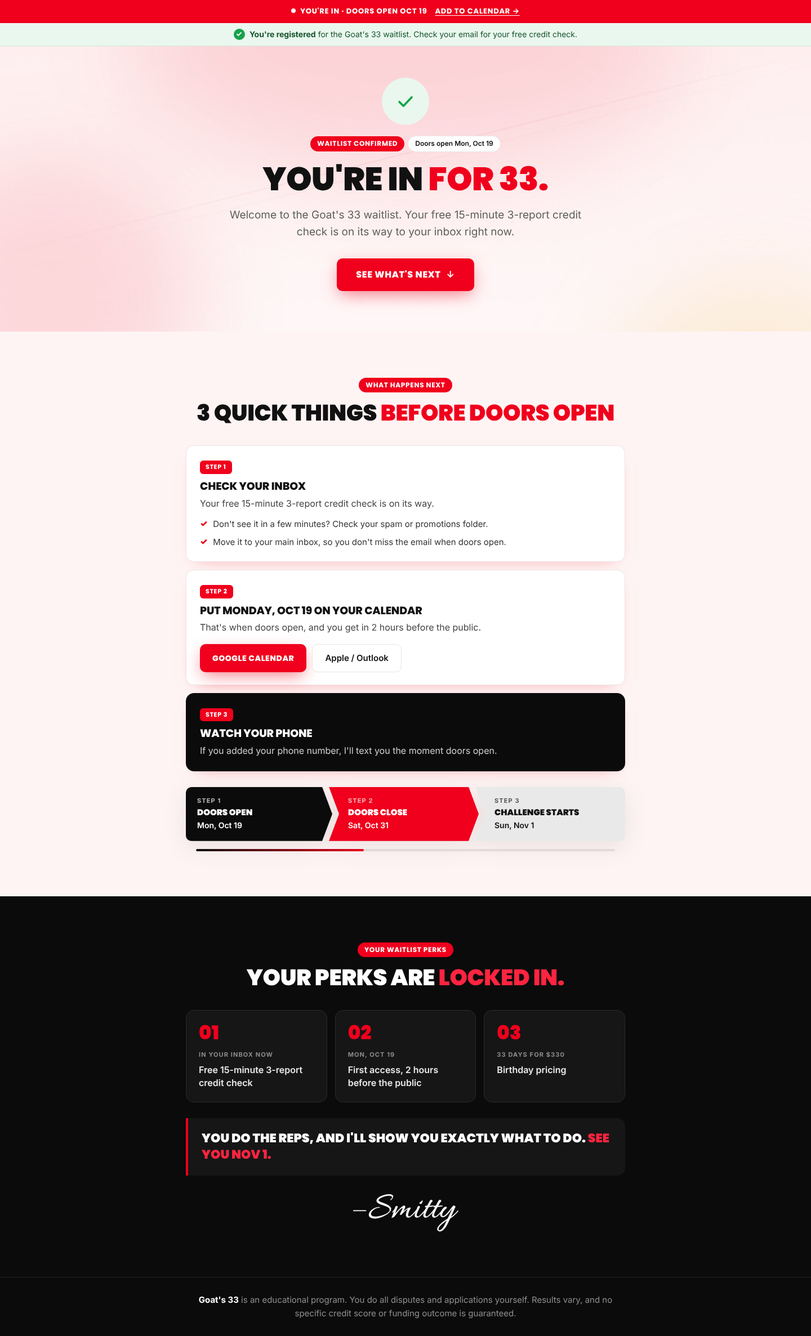
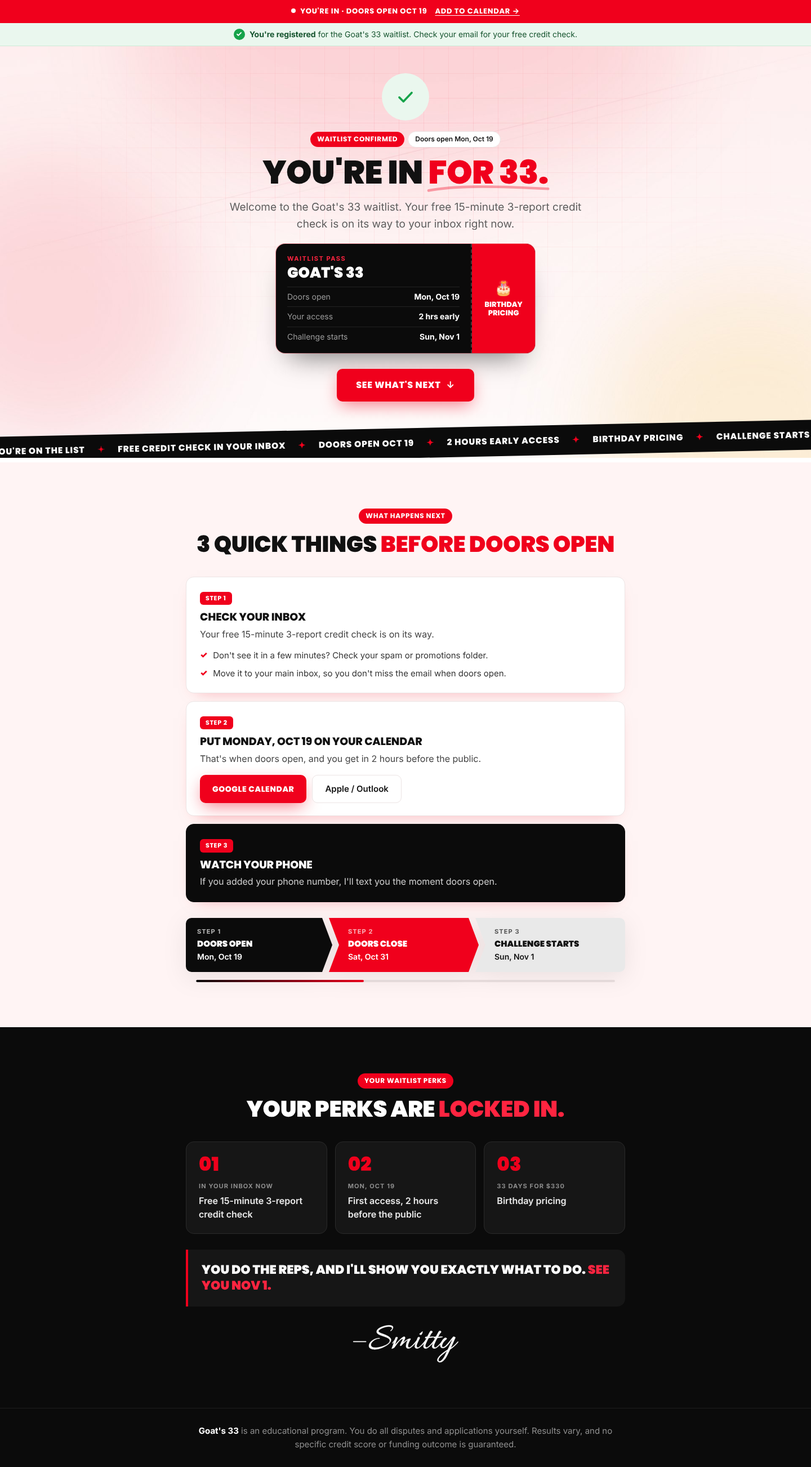
Add a motion-graphics opener to the Goat's 33 thank-you hero
The green strip drops in, the check pops with two rippling rings and a
one-time confetti burst, the headline builds word by word while the 33
counts up and an underline draws, a dark waitlist pass (doors open,
2 hrs early, challenge start, birthday pricing) flips up and gets a
light sweep, and a ticker runs along the bottom. The block is now
transparent like the registration hero, so the section's background
image shows through. All motion stops under prefers-reduced-motion.

Claude-Session: https://claude.ai/code/session_016EWm4T9j3p357VgxQ4fA9k

diff --git a/funnel/goats-33/preview/thank-you.html b/funnel/goats-33/preview/thank-you.html
@@ -291,6 +291,48 @@ html { scroll-behavior: smooth; }
 .wf-glowbg .wf__wrap { position: relative; }
 @keyframes wf-breathe { 50% { transform: translate(-50%, -50%) scale(1.25); opacity: .6; } }
 
+/* ---------- Thank-you "You're in" opener ---------- */
+.wf-strip--drop { animation: wf-drop .6s cubic-bezier(.2,.8,.2,1) both; }
+@keyframes wf-drop { from { transform: translateY(-100%); opacity: 0; } }
+.wf-ty2 .wf-hero--motion .wf__wrap { padding-top: 48px; padding-bottom: 48px; }
+.wf-ty2 .wf-kinetic { margin: 14px 0 16px; }
+
+/* Check: pops in, two rings ripple out, a ring of confetti bursts once */
+.wf-burst { position: relative; width: 84px; height: 84px; margin: 0 auto 18px; }
+.wf-burst .wf-okay { position: relative; z-index: 2; margin: 0; animation-delay: .15s; }
+.wf-burst__ring { position: absolute; inset: 0; border-radius: 50%; border: 2px solid var(--wf-green); opacity: 0; animation: wf-ring 1.6s ease-out .45s 2; }
+.wf-burst__ring--2 { border-color: var(--wf-red); animation-delay: .75s; }
+@keyframes wf-ring { 0% { transform: scale(.9); opacity: .7; } 100% { transform: scale(2.4); opacity: 0; } }
+.wf-burst__bits { position: absolute; left: 50%; top: 50%; z-index: 1; }
+.wf-burst__bits i { position: absolute; left: -4px; top: -7px; width: 8px; height: 14px; border-radius: 2px; opacity: 0;
+  background: var(--c, var(--wf-red)); transform: rotate(var(--a)) translateY(0);
+  animation: wf-bit 1s cubic-bezier(.1,.7,.3,1) .55s both; }
+@keyframes wf-bit { 0% { opacity: 1; transform: rotate(var(--a)) translateY(0) scale(.6); } 70% { opacity: 1; } 100% { opacity: 0; transform: rotate(var(--a)) translateY(-90px) rotate(200deg) scale(1); } }
+.wf-burst__bits i:nth-child(1) { --a: 0deg; } .wf-burst__bits i:nth-child(2) { --a: 30deg; --c: var(--wf-gold); }
+.wf-burst__bits i:nth-child(3) { --a: 60deg; --c: var(--wf-green); } .wf-burst__bits i:nth-child(4) { --a: 90deg; }
+.wf-burst__bits i:nth-child(5) { --a: 120deg; --c: var(--wf-gold); } .wf-burst__bits i:nth-child(6) { --a: 150deg; --c: var(--wf-ink); }
+.wf-burst__bits i:nth-child(7) { --a: 180deg; } .wf-burst__bits i:nth-child(8) { --a: 210deg; --c: var(--wf-gold); }
+.wf-burst__bits i:nth-child(9) { --a: 240deg; --c: var(--wf-green); } .wf-burst__bits i:nth-child(10) { --a: 270deg; }
+.wf-burst__bits i:nth-child(11) { --a: 300deg; --c: var(--wf-gold); } .wf-burst__bits i:nth-child(12) { --a: 330deg; --c: var(--wf-ink); }
+
+/* Waitlist pass: flips up into place, then a light sweeps across it */
+.wf-pass { position: relative; display: flex; max-width: 460px; margin: 4px auto 28px; text-align: left; border-radius: 16px; overflow: hidden;
+  background: var(--wf-black); color: #fff; box-shadow: 0 28px 50px -24px rgba(0,0,0,.55), 0 0 0 1px rgba(240,0,28,.35);
+  transform-origin: 50% 100%; animation: wf-pass-in .9s cubic-bezier(.2,.9,.25,1) 1.4s both; }
+.wf-pass::after { content: ""; position: absolute; top: 0; bottom: 0; width: 35%; left: -50%; pointer-events: none;
+  background: linear-gradient(100deg, transparent, rgba(255,255,255,.18), transparent); transform: skewX(-20deg);
+  animation: wf-shine 4s ease-in-out 2.4s infinite; }
+@keyframes wf-pass-in { from { opacity: 0; transform: perspective(800px) rotateX(55deg) translateY(30px) scale(.92); } to { opacity: 1; transform: none; } }
+.wf-pass__main { flex: 1; padding: 18px 20px; border-right: 2px dashed #3A3A3A; position: relative; }
+.wf-pass__kicker { display: block; font-size: 11px; font-weight: 700; letter-spacing: .14em; text-transform: uppercase; color: #FF2440; }
+.wf-pass__title { display: block; font-family: var(--wf-head); font-weight: 900; font-size: 26px; line-height: 1.1; text-transform: uppercase; margin: 2px 0 10px; }
+.wf-pass__rows { margin: 0; display: grid; gap: 6px; }
+.wf-pass__rows div { display: flex; justify-content: space-between; gap: 12px; font-size: 14px; border-top: 1px solid #222; padding-top: 6px; }
+.wf-pass__rows dt { color: #9A9A9A; } .wf-pass__rows dd { margin: 0; font-weight: 700; }
+.wf-pass__stub { width: 112px; flex: none; display: grid; place-content: center; justify-items: center; gap: 6px; text-align: center; padding: 12px;
+  background: var(--wf-red); font-family: var(--wf-head); font-weight: 800; font-size: 13px; line-height: 1.2; text-transform: uppercase; }
+.wf-pass__cake { font-size: 26px; animation: wf-bob 3s ease-in-out 2.4s infinite; }
+
 /* ---------- Phones ---------- */
 @media (max-width: 760px) {
   .wf { font-size: 16px; }
@@ -310,11 +352,15 @@ html { scroll-behavior: smooth; }
   .wf-float--b { right: -6px; top: 44%; }
   .wf-float--c { left: -6px; bottom: 6%; }
   .wf-ticker__track { font-size: 13px; }
+  .wf-pass__stub { width: 92px; font-size: 12px; }
+  .wf-pass__title { font-size: 22px; }
 }
 @media (prefers-reduced-motion: reduce) {
   .wf__btn, .wf-top__dot, .wf-okay, .wf-okay path, .wf-in, .wf-kinetic .wf-w > span, .wf-scribble path, .wf-wipe, .wf-wipe img,
   .wf-float, .wf-fx__grid, .wf-ticker__track, .wf__btn--shine::after, .wf-progress span, .wf-offer--glow,
-  .wf-glowbg::before, .wf-tabs--seq.is-in .wf-tab, .wf-bio.is-in .wf-chip, .wf-card__num { animation: none !important; }
+  .wf-glowbg::before, .wf-tabs--seq.is-in .wf-tab, .wf-bio.is-in .wf-chip, .wf-card__num,
+  .wf-strip--drop, .wf-burst__ring, .wf-burst__bits i, .wf-pass, .wf-pass::after, .wf-pass__cake { animation: none !important; }
+  .wf-burst__ring, .wf-burst__bits { display: none; }
   .wf-scribble path { stroke-dashoffset: 0; }
   .wf-okay path { stroke-dashoffset: 0; }
   [data-reveal][data-reveal="armed"] { opacity: 1; transform: none; transition: none; }
@@ -358,19 +404,66 @@ body{margin:0;background:#fff}
 })();
 </script>
 
-<div class="mock-hero"><!-- Goat's 33 · THANK-YOU · 02 YOU'RE IN · own GHL section, padding 0, no background (the block paints its own) -->
-<div class="wf">
-  <div class="wf-strip"><div class="wf-strip__in"><span class="wf-tick wf-tick--green" aria-hidden="true"><svg viewBox="0 0 16 16" fill="none" stroke="#fff" stroke-width="3" stroke-linecap="round" stroke-linejoin="round"><path d="M3 8.5l3.2 3L13 4.5"/></svg></span><span><strong>You're registered</strong> for the Goat's 33 waitlist. Check your email for your free credit check.</span></div></div>
-  <div class="wf-hero">
+<div class="mock-hero"><!-- Goat's 33 · THANK-YOU · 02 YOU'RE IN · own GHL section, padding 0, FULL WIDTH.
+     Section background image: backgrounds/hero-section.jpg (or solid #FFF5F5). The block is transparent.
+     Motion-graphics opener: the green strip slides down, the check pops with rings and a confetti burst, the headline
+     builds word by word while 33 counts up, an underline draws, a waitlist pass flips in with a shine, and a ticker runs
+     along the bottom. All motion stops under "reduce motion". -->
+<div class="wf wf-ty2">
+  <div class="wf-strip wf-strip--drop"><div class="wf-strip__in"><span class="wf-tick wf-tick--green" aria-hidden="true"><svg viewBox="0 0 16 16" fill="none" stroke="#fff" stroke-width="3" stroke-linecap="round" stroke-linejoin="round"><path d="M3 8.5l3.2 3L13 4.5"/></svg></span><span><strong>You're registered</strong> for the Goat's 33 waitlist. Check your email for your free credit check.</span></div></div>
+  <div class="wf-hero wf-hero--motion">
+    <div class="wf-fx" aria-hidden="true"><span class="wf-fx__grid"></span></div>
     <div class="wf__wrap wf__center">
-      <div class="wf-okay" aria-hidden="true"><svg viewBox="0 0 48 48"><path d="M12 25l8 8 16-17"/></svg></div>
-      <div class="wf__labels"><span class="wf__label">Waitlist confirmed</span><span class="wf__label wf__label--soft">Doors open Mon, Oct 19</span></div>
-      <h1>You're in <span class="wf__red">for 33.</span></h1>
-      <p class="wf__lead">Welcome to the Goat's 33 waitlist. Your free 15-minute 3-report credit check is on its way to your inbox right now.</p>
-      <a class="wf__btn wf__btn--shine" href="#wf-next" style="margin-top:12px">See What's Next <span class="wf__arrow" aria-hidden="true">↓</span></a>
+      <div class="wf-burst" aria-hidden="true">
+        <span class="wf-burst__ring"></span><span class="wf-burst__ring wf-burst__ring--2"></span>
+        <span class="wf-burst__bits"><i></i><i></i><i></i><i></i><i></i><i></i><i></i><i></i><i></i><i></i><i></i><i></i></span>
+        <div class="wf-okay"><svg viewBox="0 0 48 48"><path d="M12 25l8 8 16-17"/></svg></div>
+      </div>
+      <div class="wf__labels wf-in" style="--d:.5s"><span class="wf__label">Waitlist confirmed</span><span class="wf__label wf__label--soft">Doors open Mon, Oct 19</span></div>
+      <h1 class="wf-kinetic" aria-label="You're in for 33."><span aria-hidden="true">
+        <span class="wf-w" style="--i:3"><span>You're</span></span>
+        <span class="wf-w" style="--i:4"><span>in</span></span>
+        <span class="wf-w wf__red wf-mark" style="--i:5"><span>for <span class="wf-count" data-to="33">33</span>.</span><svg class="wf-scribble" viewBox="0 0 300 24" preserveAspectRatio="none"><path d="M4 16 C 60 6, 140 4, 296 12"/></svg></span>
+      </span></h1>
+      <p class="wf__lead wf-in" style="--d:1.1s">Welcome to the Goat's 33 waitlist. Your free 15-minute 3-report credit check is on its way to your inbox right now.</p>
+      <div class="wf-pass" aria-label="Your waitlist pass: doors open Monday, Oct 19, you get in 2 hours early, challenge starts Sunday, Nov 1">
+        <div class="wf-pass__main">
+          <span class="wf-pass__kicker">Waitlist pass</span>
+          <span class="wf-pass__title">Goat's 33</span>
+          <dl class="wf-pass__rows">
+            <div><dt>Doors open</dt><dd>Mon, Oct 19</dd></div>
+            <div><dt>Your access</dt><dd>2 hrs early</dd></div>
+            <div><dt>Challenge starts</dt><dd>Sun, Nov 1</dd></div>
+          </dl>
+        </div>
+        <div class="wf-pass__stub"><span class="wf-pass__cake" aria-hidden="true">🎂</span><span>Birthday<br>pricing</span></div>
+      </div>
+      <div class="wf-in" style="--d:2.1s">
+        <a class="wf__btn wf__btn--shine" href="#wf-next">See What's Next <span class="wf__arrow" aria-hidden="true">↓</span></a>
+      </div>
     </div>
+    <div class="wf-ticker" aria-hidden="true"><div class="wf-ticker__track"><span>You're on the list</span><i aria-hidden="true">✦</i><span>Free credit check in your inbox</span><i aria-hidden="true">✦</i><span>Doors open Oct 19</span><i aria-hidden="true">✦</i><span>2 hours early access</span><i aria-hidden="true">✦</i><span>Birthday pricing</span><i aria-hidden="true">✦</i><span>Challenge starts Nov 1</span><i aria-hidden="true">✦</i><span>You're on the list</span><i aria-hidden="true">✦</i><span>Free credit check in your inbox</span><i aria-hidden="true">✦</i><span>Doors open Oct 19</span><i aria-hidden="true">✦</i><span>2 hours early access</span><i aria-hidden="true">✦</i><span>Birthday pricing</span><i aria-hidden="true">✦</i><span>Challenge starts Nov 1</span><i aria-hidden="true">✦</i></div></div>
   </div>
 </div>
+<script>
+/* Counts the red 33 up from 0 once the headline has built in. Without JS it just shows 33. */
+(function () {
+  if (matchMedia('(prefers-reduced-motion: reduce)').matches) return;
+  document.querySelectorAll('.wf-count:not([data-done])').forEach(function (el) {
+    el.setAttribute('data-done', '');
+    var to = +el.dataset.to, t0 = null, dur = 1100;
+    el.textContent = '0';
+    setTimeout(function () {
+      requestAnimationFrame(function step(ts) {
+        t0 = t0 || ts;
+        var k = Math.min((ts - t0) / dur, 1);
+        el.textContent = Math.round(to * (1 - Math.pow(1 - k, 3)));
+        if (k < 1) requestAnimationFrame(step);
+      });
+    }, 800);
+  });
+})();
+</script>
 </div>
 <!-- Goat's 33 · THANK-YOU · 03 WHAT HAPPENS NEXT (blush) · own GHL section, padding 0, no background (the block paints its own) -->
 <div class="wf wf--blush" id="wf-next" style="scroll-margin-top:0">

diff --git a/funnel/goats-33/thank-you/02-confirmed.html b/funnel/goats-33/thank-you/02-confirmed.html
@@ -1,13 +1,60 @@
-<!-- Goat's 33 · THANK-YOU · 02 YOU'RE IN · own GHL section, padding 0, no background (the block paints its own) -->
-<div class="wf">
-  <div class="wf-strip"><div class="wf-strip__in"><span class="wf-tick wf-tick--green" aria-hidden="true"><svg viewBox="0 0 16 16" fill="none" stroke="#fff" stroke-width="3" stroke-linecap="round" stroke-linejoin="round"><path d="M3 8.5l3.2 3L13 4.5"/></svg></span><span><strong>You're registered</strong> for the Goat's 33 waitlist. Check your email for your free credit check.</span></div></div>
-  <div class="wf-hero">
+<!-- Goat's 33 · THANK-YOU · 02 YOU'RE IN · own GHL section, padding 0, FULL WIDTH.
+     Section background image: backgrounds/hero-section.jpg (or solid #FFF5F5). The block is transparent.
+     Motion-graphics opener: the green strip slides down, the check pops with rings and a confetti burst, the headline
+     builds word by word while 33 counts up, an underline draws, a waitlist pass flips in with a shine, and a ticker runs
+     along the bottom. All motion stops under "reduce motion". -->
+<div class="wf wf-ty2">
+  <div class="wf-strip wf-strip--drop"><div class="wf-strip__in"><span class="wf-tick wf-tick--green" aria-hidden="true"><svg viewBox="0 0 16 16" fill="none" stroke="#fff" stroke-width="3" stroke-linecap="round" stroke-linejoin="round"><path d="M3 8.5l3.2 3L13 4.5"/></svg></span><span><strong>You're registered</strong> for the Goat's 33 waitlist. Check your email for your free credit check.</span></div></div>
+  <div class="wf-hero wf-hero--motion">
+    <div class="wf-fx" aria-hidden="true"><span class="wf-fx__grid"></span></div>
     <div class="wf__wrap wf__center">
-      <div class="wf-okay" aria-hidden="true"><svg viewBox="0 0 48 48"><path d="M12 25l8 8 16-17"/></svg></div>
-      <div class="wf__labels"><span class="wf__label">Waitlist confirmed</span><span class="wf__label wf__label--soft">Doors open Mon, Oct 19</span></div>
-      <h1>You're in <span class="wf__red">for 33.</span></h1>
-      <p class="wf__lead">Welcome to the Goat's 33 waitlist. Your free 15-minute 3-report credit check is on its way to your inbox right now.</p>
-      <a class="wf__btn wf__btn--shine" href="#wf-next" style="margin-top:12px">See What's Next <span class="wf__arrow" aria-hidden="true">↓</span></a>
+      <div class="wf-burst" aria-hidden="true">
+        <span class="wf-burst__ring"></span><span class="wf-burst__ring wf-burst__ring--2"></span>
+        <span class="wf-burst__bits"><i></i><i></i><i></i><i></i><i></i><i></i><i></i><i></i><i></i><i></i><i></i><i></i></span>
+        <div class="wf-okay"><svg viewBox="0 0 48 48"><path d="M12 25l8 8 16-17"/></svg></div>
+      </div>
+      <div class="wf__labels wf-in" style="--d:.5s"><span class="wf__label">Waitlist confirmed</span><span class="wf__label wf__label--soft">Doors open Mon, Oct 19</span></div>
+      <h1 class="wf-kinetic" aria-label="You're in for 33."><span aria-hidden="true">
+        <span class="wf-w" style="--i:3"><span>You're</span></span>
+        <span class="wf-w" style="--i:4"><span>in</span></span>
+        <span class="wf-w wf__red wf-mark" style="--i:5"><span>for <span class="wf-count" data-to="33">33</span>.</span><svg class="wf-scribble" viewBox="0 0 300 24" preserveAspectRatio="none"><path d="M4 16 C 60 6, 140 4, 296 12"/></svg></span>
+      </span></h1>
+      <p class="wf__lead wf-in" style="--d:1.1s">Welcome to the Goat's 33 waitlist. Your free 15-minute 3-report credit check is on its way to your inbox right now.</p>
+      <div class="wf-pass" aria-label="Your waitlist pass: doors open Monday, Oct 19, you get in 2 hours early, challenge starts Sunday, Nov 1">
+        <div class="wf-pass__main">
+          <span class="wf-pass__kicker">Waitlist pass</span>
+          <span class="wf-pass__title">Goat's 33</span>
+          <dl class="wf-pass__rows">
+            <div><dt>Doors open</dt><dd>Mon, Oct 19</dd></div>
+            <div><dt>Your access</dt><dd>2 hrs early</dd></div>
+            <div><dt>Challenge starts</dt><dd>Sun, Nov 1</dd></div>
+          </dl>
+        </div>
+        <div class="wf-pass__stub"><span class="wf-pass__cake" aria-hidden="true">🎂</span><span>Birthday<br>pricing</span></div>
+      </div>
+      <div class="wf-in" style="--d:2.1s">
+        <a class="wf__btn wf__btn--shine" href="#wf-next">See What's Next <span class="wf__arrow" aria-hidden="true">↓</span></a>
+      </div>
     </div>
+    <div class="wf-ticker" aria-hidden="true"><div class="wf-ticker__track"><span>You're on the list</span><i aria-hidden="true">✦</i><span>Free credit check in your inbox</span><i aria-hidden="true">✦</i><span>Doors open Oct 19</span><i aria-hidden="true">✦</i><span>2 hours early access</span><i aria-hidden="true">✦</i><span>Birthday pricing</span><i aria-hidden="true">✦</i><span>Challenge starts Nov 1</span><i aria-hidden="true">✦</i><span>You're on the list</span><i aria-hidden="true">✦</i><span>Free credit check in your inbox</span><i aria-hidden="true">✦</i><span>Doors open Oct 19</span><i aria-hidden="true">✦</i><span>2 hours early access</span><i aria-hidden="true">✦</i><span>Birthday pricing</span><i aria-hidden="true">✦</i><span>Challenge starts Nov 1</span><i aria-hidden="true">✦</i></div></div>
   </div>
 </div>
+<script>
+/* Counts the red 33 up from 0 once the headline has built in. Without JS it just shows 33. */
+(function () {
+  if (matchMedia('(prefers-reduced-motion: reduce)').matches) return;
+  document.querySelectorAll('.wf-count:not([data-done])').forEach(function (el) {
+    el.setAttribute('data-done', '');
+    var to = +el.dataset.to, t0 = null, dur = 1100;
+    el.textContent = '0';
+    setTimeout(function () {
+      requestAnimationFrame(function step(ts) {
+        t0 = t0 || ts;
+        var k = Math.min((ts - t0) / dur, 1);
+        el.textContent = Math.round(to * (1 - Math.pow(1 - k, 3)));
+        if (k < 1) requestAnimationFrame(step);
+      });
+    }, 800);
+  });
+})();
+</script>

diff --git a/funnel/goats-33/preview/registration.html b/funnel/goats-33/preview/registration.html
@@ -291,6 +291,48 @@ html { scroll-behavior: smooth; }
 .wf-glowbg .wf__wrap { position: relative; }
 @keyframes wf-breathe { 50% { transform: translate(-50%, -50%) scale(1.25); opacity: .6; } }
 
+/* ---------- Thank-you "You're in" opener ---------- */
+.wf-strip--drop { animation: wf-drop .6s cubic-bezier(.2,.8,.2,1) both; }
+@keyframes wf-drop { from { transform: translateY(-100%); opacity: 0; } }
+.wf-ty2 .wf-hero--motion .wf__wrap { padding-top: 48px; padding-bottom: 48px; }
+.wf-ty2 .wf-kinetic { margin: 14px 0 16px; }
+
+/* Check: pops in, two rings ripple out, a ring of confetti bursts once */
+.wf-burst { position: relative; width: 84px; height: 84px; margin: 0 auto 18px; }
+.wf-burst .wf-okay { position: relative; z-index: 2; margin: 0; animation-delay: .15s; }
+.wf-burst__ring { position: absolute; inset: 0; border-radius: 50%; border: 2px solid var(--wf-green); opacity: 0; animation: wf-ring 1.6s ease-out .45s 2; }
+.wf-burst__ring--2 { border-color: var(--wf-red); animation-delay: .75s; }
+@keyframes wf-ring { 0% { transform: scale(.9); opacity: .7; } 100% { transform: scale(2.4); opacity: 0; } }
+.wf-burst__bits { position: absolute; left: 50%; top: 50%; z-index: 1; }
+.wf-burst__bits i { position: absolute; left: -4px; top: -7px; width: 8px; height: 14px; border-radius: 2px; opacity: 0;
+  background: var(--c, var(--wf-red)); transform: rotate(var(--a)) translateY(0);
+  animation: wf-bit 1s cubic-bezier(.1,.7,.3,1) .55s both; }
+@keyframes wf-bit { 0% { opacity: 1; transform: rotate(var(--a)) translateY(0) scale(.6); } 70% { opacity: 1; } 100% { opacity: 0; transform: rotate(var(--a)) translateY(-90px) rotate(200deg) scale(1); } }
+.wf-burst__bits i:nth-child(1) { --a: 0deg; } .wf-burst__bits i:nth-child(2) { --a: 30deg; --c: var(--wf-gold); }
+.wf-burst__bits i:nth-child(3) { --a: 60deg; --c: var(--wf-green); } .wf-burst__bits i:nth-child(4) { --a: 90deg; }
+.wf-burst__bits i:nth-child(5) { --a: 120deg; --c: var(--wf-gold); } .wf-burst__bits i:nth-child(6) { --a: 150deg; --c: var(--wf-ink); }
+.wf-burst__bits i:nth-child(7) { --a: 180deg; } .wf-burst__bits i:nth-child(8) { --a: 210deg; --c: var(--wf-gold); }
+.wf-burst__bits i:nth-child(9) { --a: 240deg; --c: var(--wf-green); } .wf-burst__bits i:nth-child(10) { --a: 270deg; }
+.wf-burst__bits i:nth-child(11) { --a: 300deg; --c: var(--wf-gold); } .wf-burst__bits i:nth-child(12) { --a: 330deg; --c: var(--wf-ink); }
+
+/* Waitlist pass: flips up into place, then a light sweeps across it */
+.wf-pass { position: relative; display: flex; max-width: 460px; margin: 4px auto 28px; text-align: left; border-radius: 16px; overflow: hidden;
+  background: var(--wf-black); color: #fff; box-shadow: 0 28px 50px -24px rgba(0,0,0,.55), 0 0 0 1px rgba(240,0,28,.35);
+  transform-origin: 50% 100%; animation: wf-pass-in .9s cubic-bezier(.2,.9,.25,1) 1.4s both; }
+.wf-pass::after { content: ""; position: absolute; top: 0; bottom: 0; width: 35%; left: -50%; pointer-events: none;
+  background: linear-gradient(100deg, transparent, rgba(255,255,255,.18), transparent); transform: skewX(-20deg);
+  animation: wf-shine 4s ease-in-out 2.4s infinite; }
+@keyframes wf-pass-in { from { opacity: 0; transform: perspective(800px) rotateX(55deg) translateY(30px) scale(.92); } to { opacity: 1; transform: none; } }
+.wf-pass__main { flex: 1; padding: 18px 20px; border-right: 2px dashed #3A3A3A; position: relative; }
+.wf-pass__kicker { display: block; font-size: 11px; font-weight: 700; letter-spacing: .14em; text-transform: uppercase; color: #FF2440; }
+.wf-pass__title { display: block; font-family: var(--wf-head); font-weight: 900; font-size: 26px; line-height: 1.1; text-transform: uppercase; margin: 2px 0 10px; }
+.wf-pass__rows { margin: 0; display: grid; gap: 6px; }
+.wf-pass__rows div { display: flex; justify-content: space-between; gap: 12px; font-size: 14px; border-top: 1px solid #222; padding-top: 6px; }
+.wf-pass__rows dt { color: #9A9A9A; } .wf-pass__rows dd { margin: 0; font-weight: 700; }
+.wf-pass__stub { width: 112px; flex: none; display: grid; place-content: center; justify-items: center; gap: 6px; text-align: center; padding: 12px;
+  background: var(--wf-red); font-family: var(--wf-head); font-weight: 800; font-size: 13px; line-height: 1.2; text-transform: uppercase; }
+.wf-pass__cake { font-size: 26px; animation: wf-bob 3s ease-in-out 2.4s infinite; }
+
 /* ---------- Phones ---------- */
 @media (max-width: 760px) {
   .wf { font-size: 16px; }
@@ -310,11 +352,15 @@ html { scroll-behavior: smooth; }
   .wf-float--b { right: -6px; top: 44%; }
   .wf-float--c { left: -6px; bottom: 6%; }
   .wf-ticker__track { font-size: 13px; }
+  .wf-pass__stub { width: 92px; font-size: 12px; }
+  .wf-pass__title { font-size: 22px; }
 }
 @media (prefers-reduced-motion: reduce) {
   .wf__btn, .wf-top__dot, .wf-okay, .wf-okay path, .wf-in, .wf-kinetic .wf-w > span, .wf-scribble path, .wf-wipe, .wf-wipe img,
   .wf-float, .wf-fx__grid, .wf-ticker__track, .wf__btn--shine::after, .wf-progress span, .wf-offer--glow,
-  .wf-glowbg::before, .wf-tabs--seq.is-in .wf-tab, .wf-bio.is-in .wf-chip, .wf-card__num { animation: none !important; }
+  .wf-glowbg::before, .wf-tabs--seq.is-in .wf-tab, .wf-bio.is-in .wf-chip, .wf-card__num,
+  .wf-strip--drop, .wf-burst__ring, .wf-burst__bits i, .wf-pass, .wf-pass::after, .wf-pass__cake { animation: none !important; }
+  .wf-burst__ring, .wf-burst__bits { display: none; }
   .wf-scribble path { stroke-dashoffset: 0; }
   .wf-okay path { stroke-dashoffset: 0; }
   [data-reveal][data-reveal="armed"] { opacity: 1; transform: none; transition: none; }

diff --git a/funnel/goats-33/registration/00-global-styles.css b/funnel/goats-33/registration/00-global-styles.css
@@ -289,6 +289,48 @@ html { scroll-behavior: smooth; }
 .wf-glowbg .wf__wrap { position: relative; }
 @keyframes wf-breathe { 50% { transform: translate(-50%, -50%) scale(1.25); opacity: .6; } }
 
+/* ---------- Thank-you "You're in" opener ---------- */
+.wf-strip--drop { animation: wf-drop .6s cubic-bezier(.2,.8,.2,1) both; }
+@keyframes wf-drop { from { transform: translateY(-100%); opacity: 0; } }
+.wf-ty2 .wf-hero--motion .wf__wrap { padding-top: 48px; padding-bottom: 48px; }
+.wf-ty2 .wf-kinetic { margin: 14px 0 16px; }
+
+/* Check: pops in, two rings ripple out, a ring of confetti bursts once */
+.wf-burst { position: relative; width: 84px; height: 84px; margin: 0 auto 18px; }
+.wf-burst .wf-okay { position: relative; z-index: 2; margin: 0; animation-delay: .15s; }
+.wf-burst__ring { position: absolute; inset: 0; border-radius: 50%; border: 2px solid var(--wf-green); opacity: 0; animation: wf-ring 1.6s ease-out .45s 2; }
+.wf-burst__ring--2 { border-color: var(--wf-red); animation-delay: .75s; }
+@keyframes wf-ring { 0% { transform: scale(.9); opacity: .7; } 100% { transform: scale(2.4); opacity: 0; } }
+.wf-burst__bits { position: absolute; left: 50%; top: 50%; z-index: 1; }
+.wf-burst__bits i { position: absolute; left: -4px; top: -7px; width: 8px; height: 14px; border-radius: 2px; opacity: 0;
+  background: var(--c, var(--wf-red)); transform: rotate(var(--a)) translateY(0);
+  animation: wf-bit 1s cubic-bezier(.1,.7,.3,1) .55s both; }
+@keyframes wf-bit { 0% { opacity: 1; transform: rotate(var(--a)) translateY(0) scale(.6); } 70% { opacity: 1; } 100% { opacity: 0; transform: rotate(var(--a)) translateY(-90px) rotate(200deg) scale(1); } }
+.wf-burst__bits i:nth-child(1) { --a: 0deg; } .wf-burst__bits i:nth-child(2) { --a: 30deg; --c: var(--wf-gold); }
+.wf-burst__bits i:nth-child(3) { --a: 60deg; --c: var(--wf-green); } .wf-burst__bits i:nth-child(4) { --a: 90deg; }
+.wf-burst__bits i:nth-child(5) { --a: 120deg; --c: var(--wf-gold); } .wf-burst__bits i:nth-child(6) { --a: 150deg; --c: var(--wf-ink); }
+.wf-burst__bits i:nth-child(7) { --a: 180deg; } .wf-burst__bits i:nth-child(8) { --a: 210deg; --c: var(--wf-gold); }
+.wf-burst__bits i:nth-child(9) { --a: 240deg; --c: var(--wf-green); } .wf-burst__bits i:nth-child(10) { --a: 270deg; }
+.wf-burst__bits i:nth-child(11) { --a: 300deg; --c: var(--wf-gold); } .wf-burst__bits i:nth-child(12) { --a: 330deg; --c: var(--wf-ink); }
+
+/* Waitlist pass: flips up into place, then a light sweeps across it */
+.wf-pass { position: relative; display: flex; max-width: 460px; margin: 4px auto 28px; text-align: left; border-radius: 16px; overflow: hidden;
+  background: var(--wf-black); color: #fff; box-shadow: 0 28px 50px -24px rgba(0,0,0,.55), 0 0 0 1px rgba(240,0,28,.35);
+  transform-origin: 50% 100%; animation: wf-pass-in .9s cubic-bezier(.2,.9,.25,1) 1.4s both; }
+.wf-pass::after { content: ""; position: absolute; top: 0; bottom: 0; width: 35%; left: -50%; pointer-events: none;
+  background: linear-gradient(100deg, transparent, rgba(255,255,255,.18), transparent); transform: skewX(-20deg);
+  animation: wf-shine 4s ease-in-out 2.4s infinite; }
+@keyframes wf-pass-in { from { opacity: 0; transform: perspective(800px) rotateX(55deg) translateY(30px) scale(.92); } to { opacity: 1; transform: none; } }
+.wf-pass__main { flex: 1; padding: 18px 20px; border-right: 2px dashed #3A3A3A; position: relative; }
+.wf-pass__kicker { display: block; font-size: 11px; font-weight: 700; letter-spacing: .14em; text-transform: uppercase; color: #FF2440; }
+.wf-pass__title { display: block; font-family: var(--wf-head); font-weight: 900; font-size: 26px; line-height: 1.1; text-transform: uppercase; margin: 2px 0 10px; }
+.wf-pass__rows { margin: 0; display: grid; gap: 6px; }
+.wf-pass__rows div { display: flex; justify-content: space-between; gap: 12px; font-size: 14px; border-top: 1px solid #222; padding-top: 6px; }
+.wf-pass__rows dt { color: #9A9A9A; } .wf-pass__rows dd { margin: 0; font-weight: 700; }
+.wf-pass__stub { width: 112px; flex: none; display: grid; place-content: center; justify-items: center; gap: 6px; text-align: center; padding: 12px;
+  background: var(--wf-red); font-family: var(--wf-head); font-weight: 800; font-size: 13px; line-height: 1.2; text-transform: uppercase; }
+.wf-pass__cake { font-size: 26px; animation: wf-bob 3s ease-in-out 2.4s infinite; }
+
 /* ---------- Phones ---------- */
 @media (max-width: 760px) {
   .wf { font-size: 16px; }
@@ -308,11 +350,15 @@ html { scroll-behavior: smooth; }
   .wf-float--b { right: -6px; top: 44%; }
   .wf-float--c { left: -6px; bottom: 6%; }
   .wf-ticker__track { font-size: 13px; }
+  .wf-pass__stub { width: 92px; font-size: 12px; }
+  .wf-pass__title { font-size: 22px; }
 }
 @media (prefers-reduced-motion: reduce) {
   .wf__btn, .wf-top__dot, .wf-okay, .wf-okay path, .wf-in, .wf-kinetic .wf-w > span, .wf-scribble path, .wf-wipe, .wf-wipe img,
   .wf-float, .wf-fx__grid, .wf-ticker__track, .wf__btn--shine::after, .wf-progress span, .wf-offer--glow,
-  .wf-glowbg::before, .wf-tabs--seq.is-in .wf-tab, .wf-bio.is-in .wf-chip, .wf-card__num { animation: none !important; }
+  .wf-glowbg::before, .wf-tabs--seq.is-in .wf-tab, .wf-bio.is-in .wf-chip, .wf-card__num,
+  .wf-strip--drop, .wf-burst__ring, .wf-burst__bits i, .wf-pass, .wf-pass::after, .wf-pass__cake { animation: none !important; }
+  .wf-burst__ring, .wf-burst__bits { display: none; }
   .wf-scribble path { stroke-dashoffset: 0; }
   .wf-okay path { stroke-dashoffset: 0; }
   [data-reveal][data-reveal="armed"] { opacity: 1; transform: none; transition: none; }
